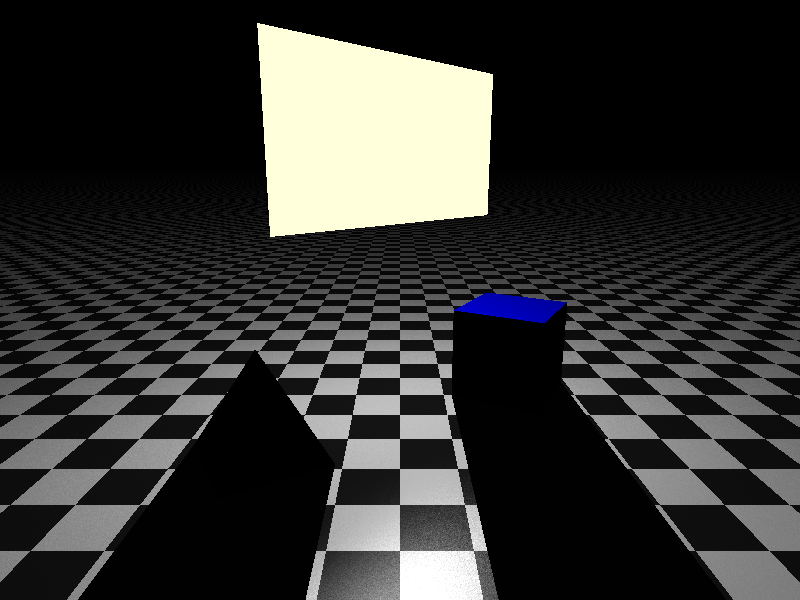
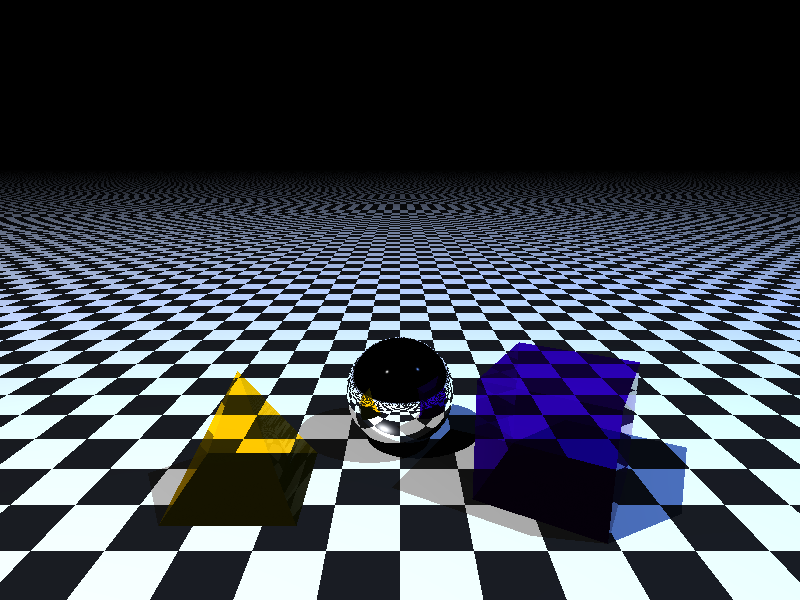
esfera espelhada, cubo e piramide

diff --git a/main.py b/main.py
@@ -33,72 +33,21 @@ def main():
 
     # DEFINIÇÃO DOS MATERIAIS
     mat_chao_xadrez = Material(diffuse=(200, 200, 200), is_checkerboard=True)
-    mat_cubo = Material(diffuse=(0, 0, 240), specular=(255, 255, 255), reflection_color=(0, 0, 0), transparency_color=(0, 0, 0), shininess=256) # Material roxo
-    mat_piramide = Material(diffuse=(255, 0, 0), specular=(255, 255, 255), reflection_color=(0, 0, 0), transparency_color=(0, 0, 0), shininess=512) # Material dourado
-    mat_esfera_vermelha = Material(diffuse=(255, 0, 0), specular=(255, 255, 255), reflection_color=(0, 0, 0), transparency_color=(60, 60, 60), shininess=256)
-    mat_esfera_azul = Material(diffuse=(0, 0, 255), specular=(255, 255, 255), reflection_color=(200, 200, 200), transparency_color=(60, 60, 60), shininess=256)
-    #parede_amarela = Material(diffuse=(255, 255, 51), specular=(10, 10, 10), shininess=64, is_checkerboard=False)
-    #cena.add(Plane(point=Point(5, 0, 0), normal=Vector(-0.1, 0, 0), material=parede_amarela))
+    mat_cubo = Material(diffuse=(102, 0, 204), specular=(30, 30, 30), reflection_color=(255, 255, 255), transparency_color=(255, 255, 255), shininess=256) # Material roxo
+    mat_piramide = Material(diffuse=(255, 215, 0), specular=(255, 255, 255), reflection_color=(255, 255, 255), transparency_color=(255, 255, 255), shininess=512) # Material dourado
 
     # Esfera espelhada
-    mat_espelho = Material(diffuse=(102, 0, 204), # Um espelho real tem cor difusa escura
+    mat_espelho = Material(diffuse=(0, 0, 0), # Um espelho real tem cor difusa escura
                            specular=(255, 255, 255),
-                           shininess=256,
+                           shininess=1000,
                            reflection_color=(255, 255, 255),
-                           transparency_color=(255, 255, 255))
-    #cena.add(Sphere(material=mat_espelho))
-
-
-    mat_luz = Material(
-        diffuse=(255, 255, 255),
-        emission_color=(255, 255, 220)
-    )
-    cor_luz = (255, 255, 255)
-
-    v0 = Point(2, 3, -2)  # Canto inferior esquerdo
-    v1 = Point(-2, 3, 2)  # Canto inferior direito
-    v2 = Point(-2, 6, 2)  # Canto superior direito
-    v3 = Point(2, 6, -2)  # Canto superior esquerdo
-    vertices_luz = [v0, v1, v2, v3]
-
-    # Usa os 4 vértices para calcular tudo.
-    # Calcula os parâmetros da luz a partir dos vértices
-    posicao_luz = v0.midpoint(v2)                     # Centro do painel
-    vec_u = v1 - v0                                   # Vetor da largura
-    vec_v = v3 - v0                                   # Vetor da altura
-    direcao_luz = vec_u.cross_product(vec_v).normalize() # Normal aponta para "fora" do painel
-
-    # Cria a fonte de luz invisível
-    luz_retangular = RectangularLight(
-        position=posicao_luz,
-        direction=direcao_luz,
-        u_vec=vec_u,
-        v_vec=vec_v,
-        intensity=cor_luz
-    )
-    cena.add_light(luz_retangular)
-
-    # Cria o objeto físico usando os vértices definidos
-    quad_luz = Mesh(
-        vertices=vertices_luz, 
-        faces=[(0, 1, 2), (0, 2, 3)],
-        material=mat_luz
-    )
-    cena.add_mesh(quad_luz)
+                           transparency_color=(0, 0, 0))
+    transform_espelho = Matrix4.translation(0, 0, -1)
+    cena.add(Sphere(material=mat_espelho, transform=transform_espelho))
 
     cena.add(Plane(point=Point(0, -1, 0), normal=Vector(0, 1, 0), material=mat_chao_xadrez)) # Adiciona um plano (chão)
-    
-
-    transform_esfera1 = Matrix4.translation(0, 0, 0)
-    esfera1 = Sphere(material=mat_esfera_vermelha, transform=transform_esfera1)
-    #cena.add(esfera1)
-
-    transform_esfera2 = Matrix4.translation(1.5, 0, 0)
-    esfera2 = Sphere(material=mat_esfera_azul, transform=transform_esfera2)
-    #cena.add(esfera2)
-
-    # cena.add_light(Light(Point(10, 20, -20), intensity=(255, 255, 255))) # Luz branca
-    # cena.add_light(Light(Point(-15, 15, -5), intensity=(100, 150, 255))) # Luz azulada
+    cena.add_light(Light(Point(10, 20, -10), intensity=(255, 255, 255))) # Luz branca
+    cena.add_light(Light(Point(-10, 15, -5), intensity=(100, 150, 255))) # Luz azulada
 
 
     # CARREGANDO UM MODELO .OBJ
@@ -106,7 +55,7 @@ def main():
     try:
         # Cubo
         verts, faces = load_obj_file("modelos/cubo2.obj")
-        transformacao_cubo = Matrix4.rotation_y(60) * Matrix4.translation(-2.5, 0, -1.5)
+        transformacao_cubo = Matrix4.translation(-2.5, 0, -2.5) * Matrix4.rotation_y(60)
         vertices_transformados = [transformacao_cubo * v for v in verts]
         cubo = Mesh(vertices=vertices_transformados, faces=faces, material=mat_cubo)
         
@@ -115,7 +64,7 @@ def main():
 
         # Piramide
         verts, faces = load_obj_file("modelos/piramide.obj")
-        transform_piramide = Matrix4.translation(2.5, 0, -1.5) * Matrix4.rotation_y(30)
+        transform_piramide = Matrix4.translation(2.5, 0, -2.5) * Matrix4.rotation_y(0)
         vertices_transformados = [transform_piramide * v for v in verts]
         piramide = Mesh(vertices=vertices_transformados, faces=faces, material=mat_piramide)
         cena.add_mesh(piramide)
